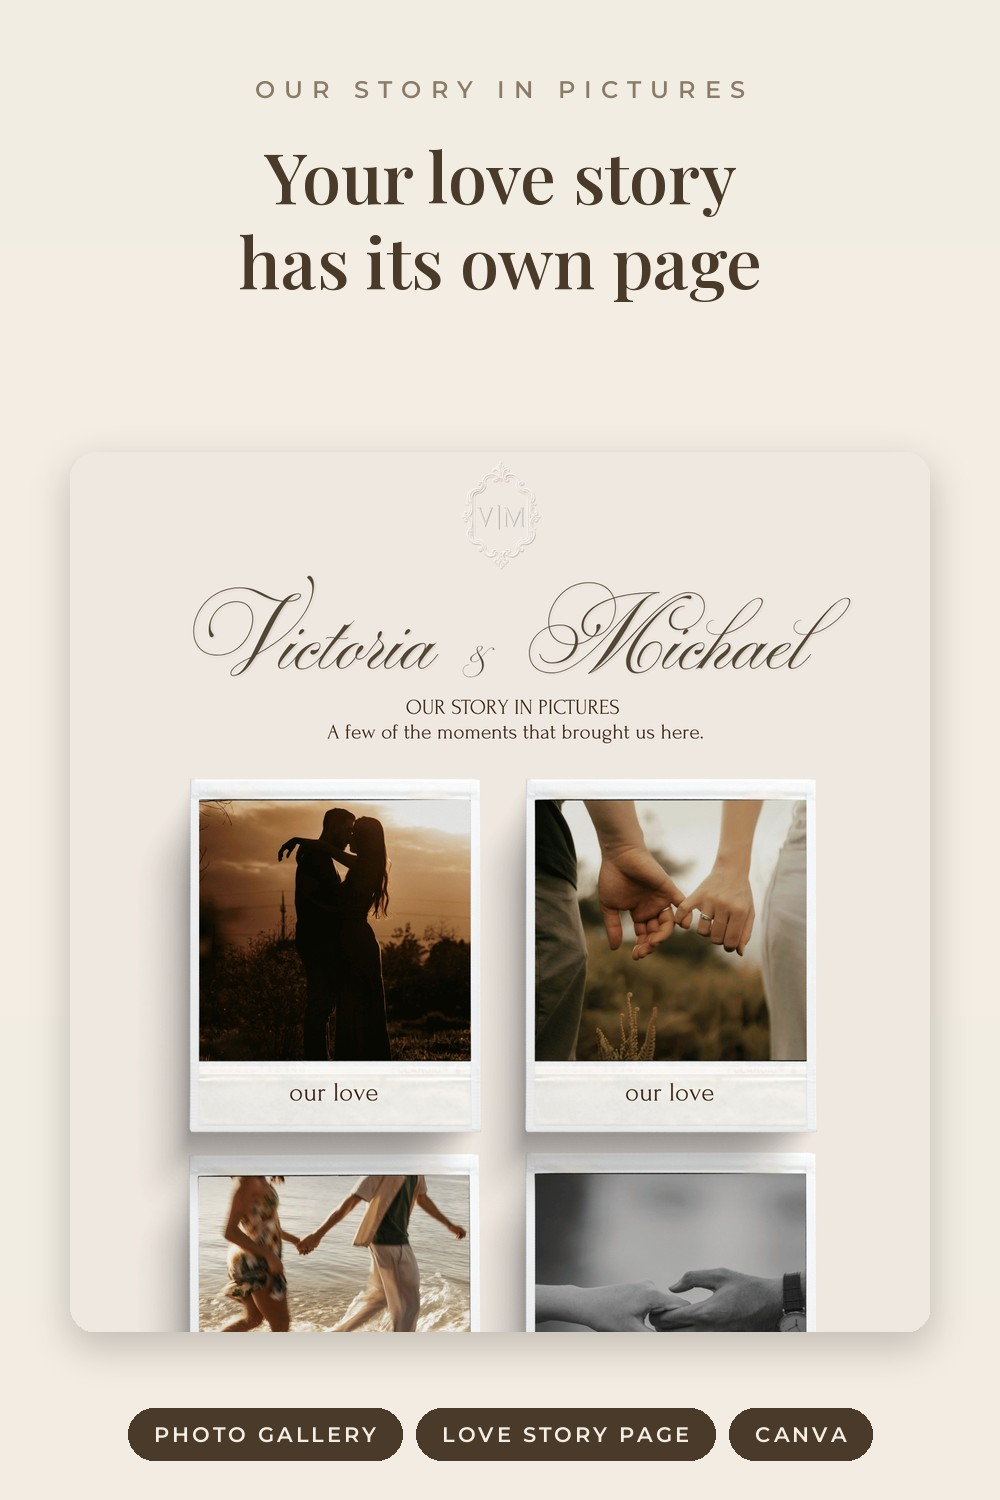
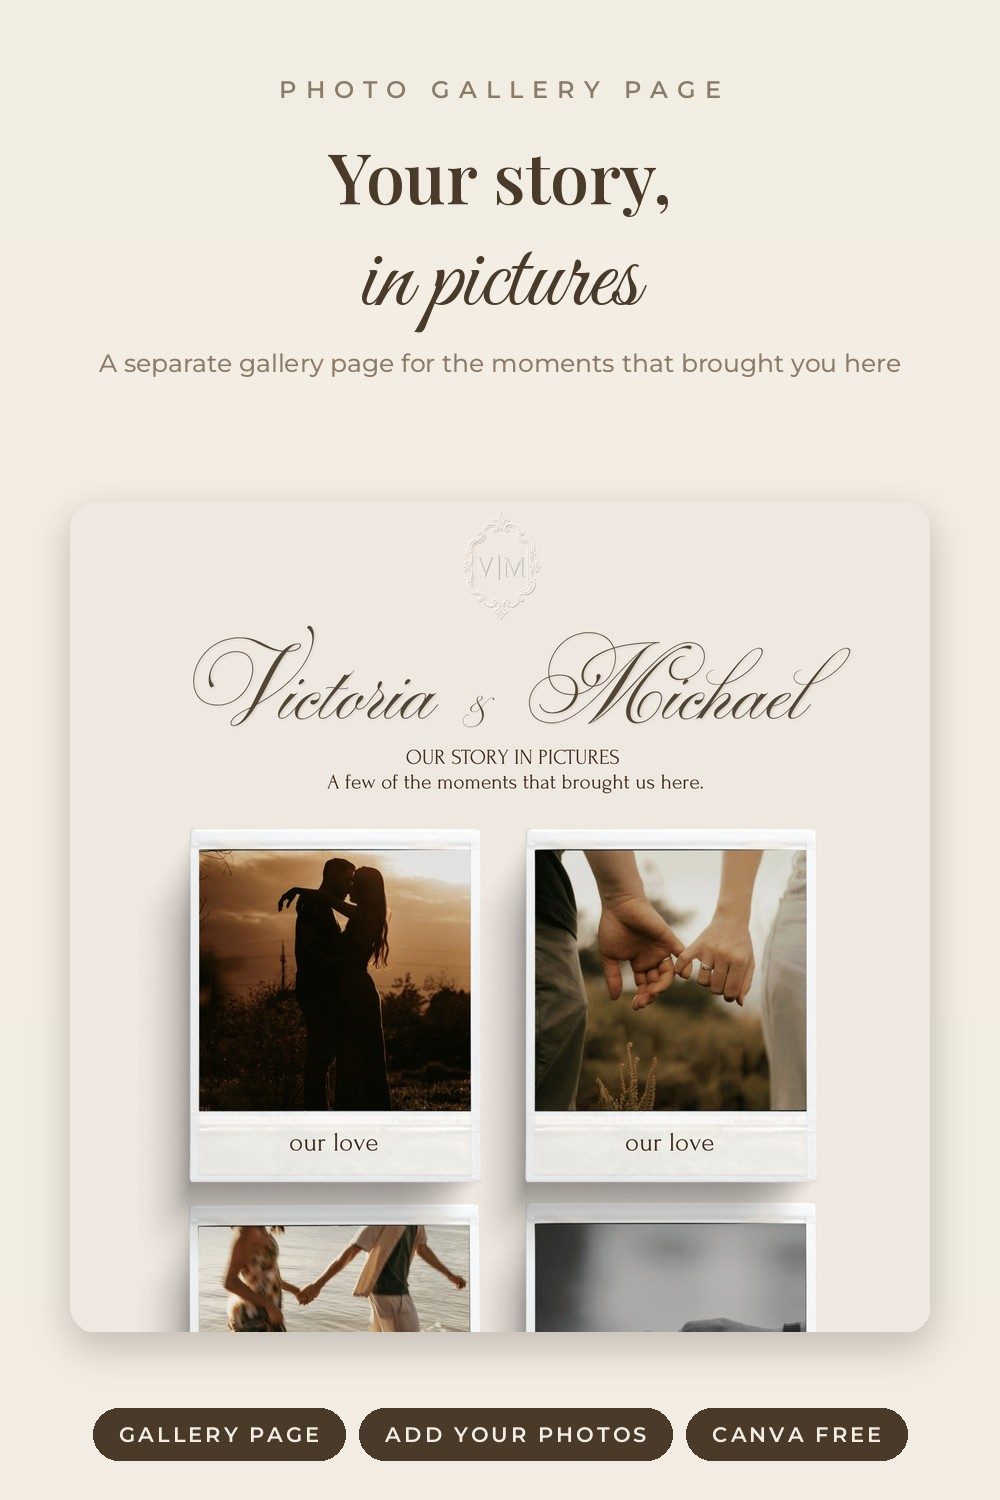
Fix gallery pin copy (gallery page, not love story) and polish laptop pin
Claude-Session: https://claude.ai/code/session_011kmtsDqSjDmuRsYCGyqzjP

diff --git a/pins/victoria-michael-website/make_pins.py b/pins/victoria-michael-website/make_pins.py
@@ -193,10 +193,10 @@ def pin_laptop():
     eyebrow(d, 88, "EDITABLE CANVA WEBSITE")
     y = headline(d, 146, ["Every detail,"], 74)
     y = script_line(d, y + 6, "beautifully in place", 96)
-    subline(d, y + 20, "Countdown · Timeline · Dress code · Travel & Stay")
+    subline(d, y + 20, "Countdown · Love story · Timeline · Dress code · FAQ")
 
     p3 = src("p3-details.jpg")
-    hero = p3.crop((0, 0, p3.width, int(p3.width * 520 / 924)))
+    hero = p3.crop((0, 100, p3.width, 100 + int(p3.width * 520 / 924)))
 
     lap = Image.open(LAPTOP).convert("RGBA")
     sx0, sy0, sx1, sy1 = LAPTOP_SCREEN
@@ -246,16 +246,18 @@ def pin_rsvp():
 def pin_gallery():
     img = canvas().convert("RGBA")
     d = ImageDraw.Draw(img)
-    eyebrow(d, 74, "OUR STORY IN PICTURES")
-    y = headline(d, 128, ["Your love story", "has its own page"], 70)
+    eyebrow(d, 74, "PHOTO GALLERY PAGE")
+    y = headline(d, 128, ["Your story,"], 70)
+    y = script_line(d, y + 6, "in pictures", 100)
+    subline(d, y + 18, "A separate gallery page for the moments that brought you here")
     p6 = src("p6-gallery.jpg")
     top = p6.crop((0, 0, p6.width, int(p6.height * 0.42)))
-    crop = cover(top, 860, 880, anchor="top")
-    box = (70, 452, 930, 1332)
+    crop = cover(top, 860, 830, anchor="top")
+    box = (70, 502, 930, 1332)
     img = shadow_card(img, box)
     img.alpha_composite(rounded(crop, 26), (box[0], box[1]))
     d = ImageDraw.Draw(img)
-    pills(d, ["PHOTO GALLERY", "LOVE STORY PAGE", "CANVA"])
+    pills(d, ["GALLERY PAGE", "ADD YOUR PHOTOS", "CANVA FREE"])
     save(img, "pin-gallery.jpg")
 
 
